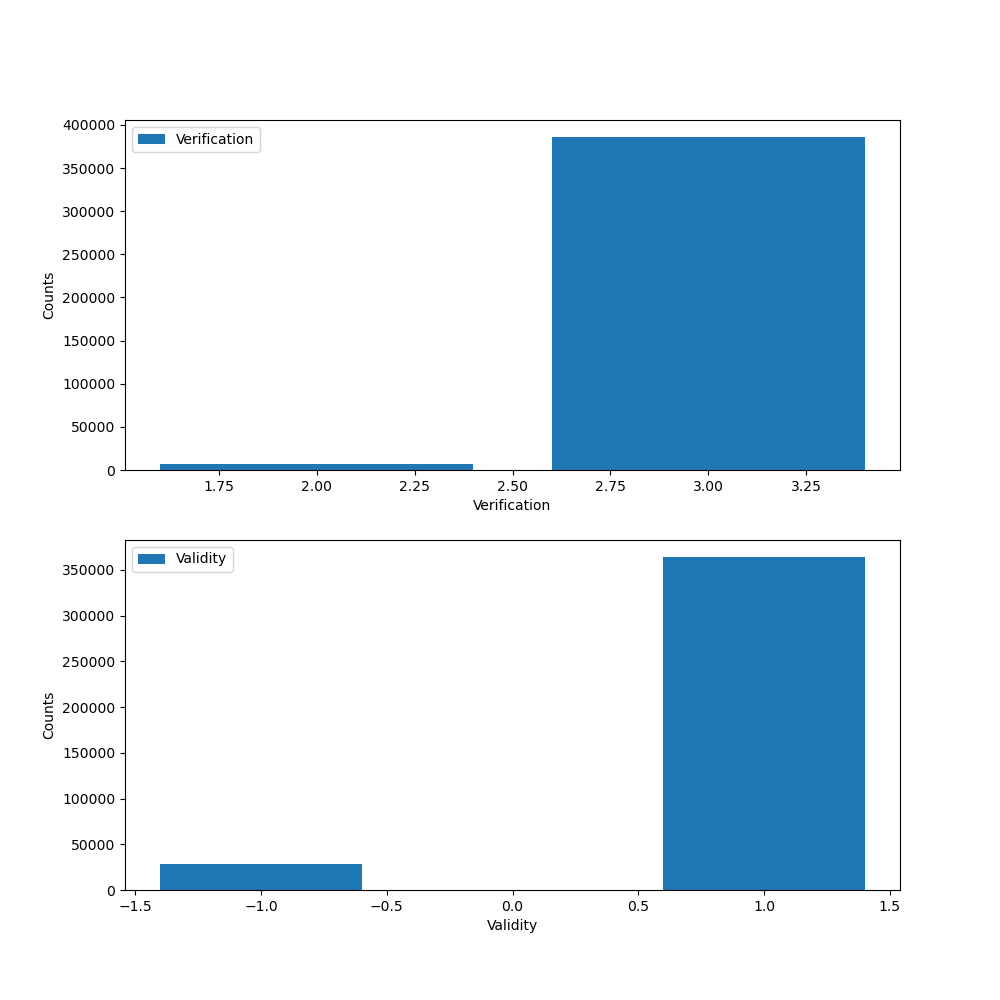
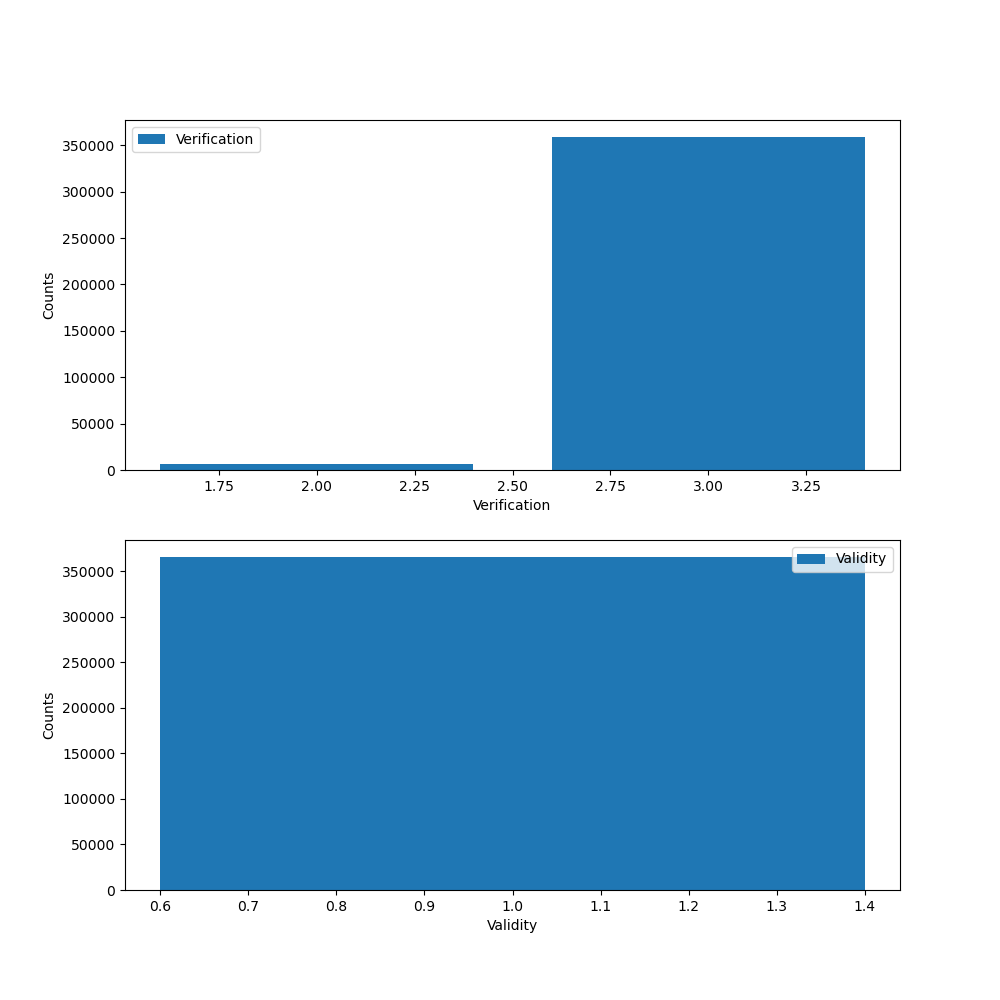
Extend find_cluster
Include dbscan and kmeans to find_cluster and test.

diff --git a/descriptive_analytics.py b/descriptive_analytics.py
@@ -41,31 +41,45 @@ def print_clusters_info(data):
     print('The largest cluster contains ', count.max()[0],'points \n')
 
     big_cluster = data[data.Cluster == idx_bigger[0]]
+    # big_cluster = data[data.Cluster == idx_bigger[0]]
 
-def find_cluster(data, new, stations):
-    from sklearn.cluster import AgglomerativeClustering
+def find_cluster(locations, new, stations, method = 'agglomerative', linkage = 'complete', verbose = False):
+    from sklearn.cluster import AgglomerativeClustering, KMeans, DBSCAN
 
     # Ensure that the clusters are equally distributed geographically by specifying
     # a distance threshold
-    X = data.drop('AirQualityStationEoICode',axis=1)
+    X = locations.drop('AirQualityStationEoICode',axis=1)
 
-    clustering = AgglomerativeClustering(n_clusters=None, affinity='euclidean', memory='cache',
-                        connectivity=None, compute_full_tree='auto', linkage='complete',
+    if (method == 'kmeans'):
+        clustering = KMeans(n_clusters = 100, n_init = 10, algorithm = 'auto').fit(X)
+        if verbose:
+            print('The cluster centers are: \n', clustering.cluster_centers_)
+            print('The inertia is: \n', clustering.inertia_)
+            print('The labels of the cluster are: \n', list(clustering.labels_))
+    elif (method == 'dbscan'):
+        clustering = DBSCAN(eps = 0.5, min_samples = 1, metric = 'euclidean',
+            algorithm = 'auto').fit(X)
+        if verbose:
+            print('The indices of the core samples are:\n', clustering.core_sample_indices_)
+            print('The components for each core sample are:\n', clustering.components_)
+    else :
+        clustering = AgglomerativeClustering(n_clusters=None, affinity='euclidean', memory='cache',
+                        connectivity=None, compute_full_tree='auto', linkage = linkage,
                         distance_threshold=2.0).fit(X)
 
+
+    # Store the cluster index in new column and count the number of points per cluster.
+    # Then find the cluster with the largest number of points just to check... To put
+    # in a function.
+
+    locations['Cluster'] = clustering.labels_
+    print_clusters_info(locations)
     #linkage = ward(clustering.children_)
 
     #plt.title('Hierarchical Clustering Dendrogram')
     #dendrogram(linkage, truncate_mode='level', p=3)
     #plt.xlabel("Number of points in node (or index of point if no parenthesis).")
     #plt.show()
-
-    # Store the cluster index in new column and count the number of points per cluster.
-    # Then find the cluster with the largest number of points just to check... To put
-    # in a function.
-
-    data['Cluster'] = clustering.labels_
-    print_clusters_info(data)
 
     # Take a new geographic location and add it to the dataset
     #new = np.array([4.7038946, 50.8864501])
@@ -86,7 +100,7 @@ def find_cluster(data, new, stations):
 
     # Get the coordinates in the cluster and merge it with the airquality station information
     df1 = df[df.Cluster==cluster][['Longitude','Latitude']]
-    df2 = pd.merge(df1, data, how = 'inner', on = ['Longitude', 'Latitude'])
+    df2 = pd.merge(df1, locations, how = 'inner', on = ['Longitude', 'Latitude'])
     print('There are ',len(df2.AirQualityStationEoICode.unique()),'stations in the cluster')
     station_ids = df2.AirQualityStationEoICode.unique()
     print('The stations are :\n',station_ids)
@@ -127,8 +141,46 @@ def get_data_for_prediction(pollutant, station_ids):
         data.AirQualityStationEoICode.unique())
     return data
 
+def calibration(data, stations):
+    for station in stations:
+        data_station = data[data.AirQualityStation == station]
+        background = -data_station.Concentration.min()
+        new_concentration = data_station.Concentration + background
+        data.loc[data.AirQualityStation == station,'Concentration'] = new_concentration
+    return data
+
 # Find nearest neighbors
 #### Testing
 if __name__ == '__main__':
-    main()
+    new = [4.7038946, 50.8864501]
+    coordinates_data, stations = get_coordinates_data('SO2')
+
+    test_clustering = False
+    clustering = 'agglomerative'
+    save_data = False
+    get_data = True
+
+    if test_clustering:
+        if (clustering == 'kmeans' or clustering == 'all'):
+            print('TRYING K-Means CLUSTERING...')
+            print(coordinates_data.columns)
+            station_ids = find_cluster(coordinates_data, new, stations,
+                method = 'kmeans')
+            coordinates_data = coordinates_data.drop('Cluster', axis = 1)
+        elif (clustering == 'agglomerative' or clustering == 'all'):
+            print(coordinates_data.columns)
+            print('TRYING Agglomerative CLUSTERING...')
+            station_ids = find_cluster(coordinates_data, new, stations)
+            coordinates_data = coordinates_data.drop('Cluster', axis = 1)
+        elif (clustering == 'dbscan' or clustering == 'all'):
+            print(coordinates_data.columns)
+            print('TRYING DBSCAN CLUSTERING...')
+            station_ids = find_cluster(coordinates_data, new, stations,
+                method = 'dbscan', verbose = True)
+
+    if save_data:
+        data = get_data_for_prediction('SO2', station_ids)
+        filename = 'data\\prediction_SO2.csv'
+        print('Saving the dataset to ',filename)
+        data.to_csv(filename, index=False)
 

diff --git a/pollution.py b/pollution.py
@@ -11,7 +11,7 @@ import matplotlib.dates as mdates
 import datetime
 
 
-from descriptive_analytics import get_coordinates_data, find_cluster, get_data_for_prediction
+from descriptive_analytics import get_coordinates_data, find_cluster, get_data_for_prediction, calibration
 
 eea_url = 'https://fme.discomap.eea.europa.eu/fmedatastreaming/AirQualityDownload/AQData_Extract.fmw'
 years_list = [str(x) for x in list(range(2013, 2021))]
@@ -130,32 +130,28 @@ def clean_data(data):
 
     '''
 
-    # Subatitute NA with 0 in the Concentration
-    data['Concentration'] = data['Concentration'].fillna(0)
+    # Check for NAs
+    print('There are ',sum(data.Concentration.isna()),'missing values in Concentration.')
+    print(f'There are {sum(data.Validity.isna()):.0f} points missing validation data.')
+    print(f'There are {sum(data.Verification.isna()):.0f} points lacking verification data.')
 
-    # Check for NA in Validity
-    unvalid_points = pd.isna(data['Validity']).sum()
-    print(f'There are {unvalid_points:.0f} points missing validation data.')
+    # Drop NAs
+    print('We remove points that are missing concentration, validity or verification data...')
+    data.dropna(axis = 0, subset = ['Concentration', 'Validity', 'Verification'],
+                inplace = True)
 
-    # Check for invalid points
+    # Visualise verified and valid points
+    print('Have a look at data/check.png for invalid and unverified points')
     validity_counts = data[['Concentration', 'Validity']
                            ].groupby(['Validity']).count()
     validity_counts = validity_counts.rename(
         columns={'Concentration': 'Counts'})
 
-    # Check for NAs in Verification
-    unverified_points = pd.isna(data['Verification']).sum()
-    print(
-        f'There are {unverified_points:.0f} points lacking verification data.')
-
-    # Check for data that lack verification
     verification_counts = data[['Concentration', 'Verification']].groupby(
         ['Verification']).count()
     verification_counts = verification_counts.rename(
         columns={'Concentration': 'Counts'})
-    # Note that most of the data for 2019 and 2020 are not verified
 
-    # Visualise verified and valid points
     fig, (ax1, ax2) = plt.subplots(2, figsize=(10, 10))
 
     ax1.bar(verification_counts.index, 'Counts', data=verification_counts,
@@ -170,8 +166,31 @@ def clean_data(data):
 
     fig.savefig('output\check.png')
 
-    # Remove invalid data, accept data that lack verification
-    data = data[data['Validity'] == 1]  # Getting rid of invalid data
+    # Remove invalid data
+    print('There are', sum(data.Validity == -1),' invalid points')
+    print('Removing invalid points...')
+    data = data[data.Validity == 1]
+
+    # Check for unverified points
+    provisional = sum(data.Verification == 3)
+    preliminary = sum(data.Verification == 2)
+    verified = sum(data.Verification == 1)
+    total = data.shape[0]
+    print(provisional/total,' of the data are provisional.')
+    print(preliminary/total,' of the data are preliminary.')
+    print(verified/total,' of the data are verified.')
+
+    # Getting rid of negative concentration values.
+    stations_to_calibrate2 = data.loc[(data.Concentration < 0) & (data.Verification == 2),'AirQualityStation'].unique()
+    data = calibration(data, stations_to_calibrate2)
+    stations_to_calibrate3 = data.loc[(data.Concentration < 0) & (data.Verification == 3),'AirQualityStation'].unique()
+    data = calibration(data, stations_to_calibrate3)
+
+    negatives = sum(data.Concentration < 0)
+    print('There are ', negatives, ' negative Concentation points in the dataset.')
+    print('The maximum Concentration is ', data.Concentration.max())
+    print('The minimum Concentration is ', data.Concentration.min())
+
     # Order data by datetime
     data = data.sort_values(by='DatetimeEnd')
 
